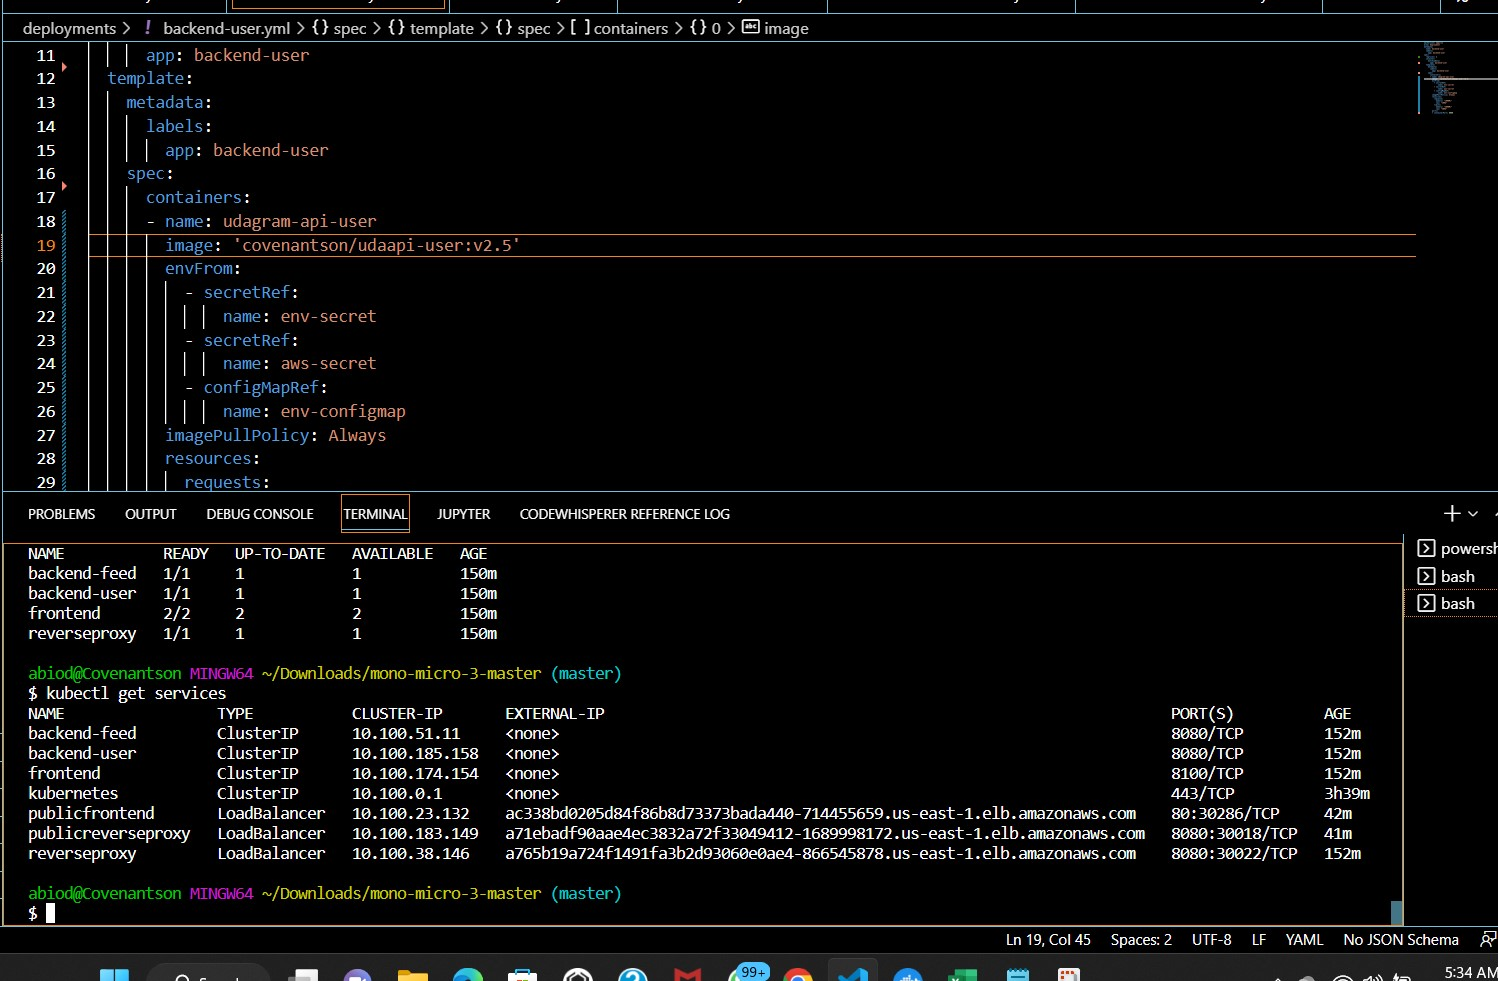
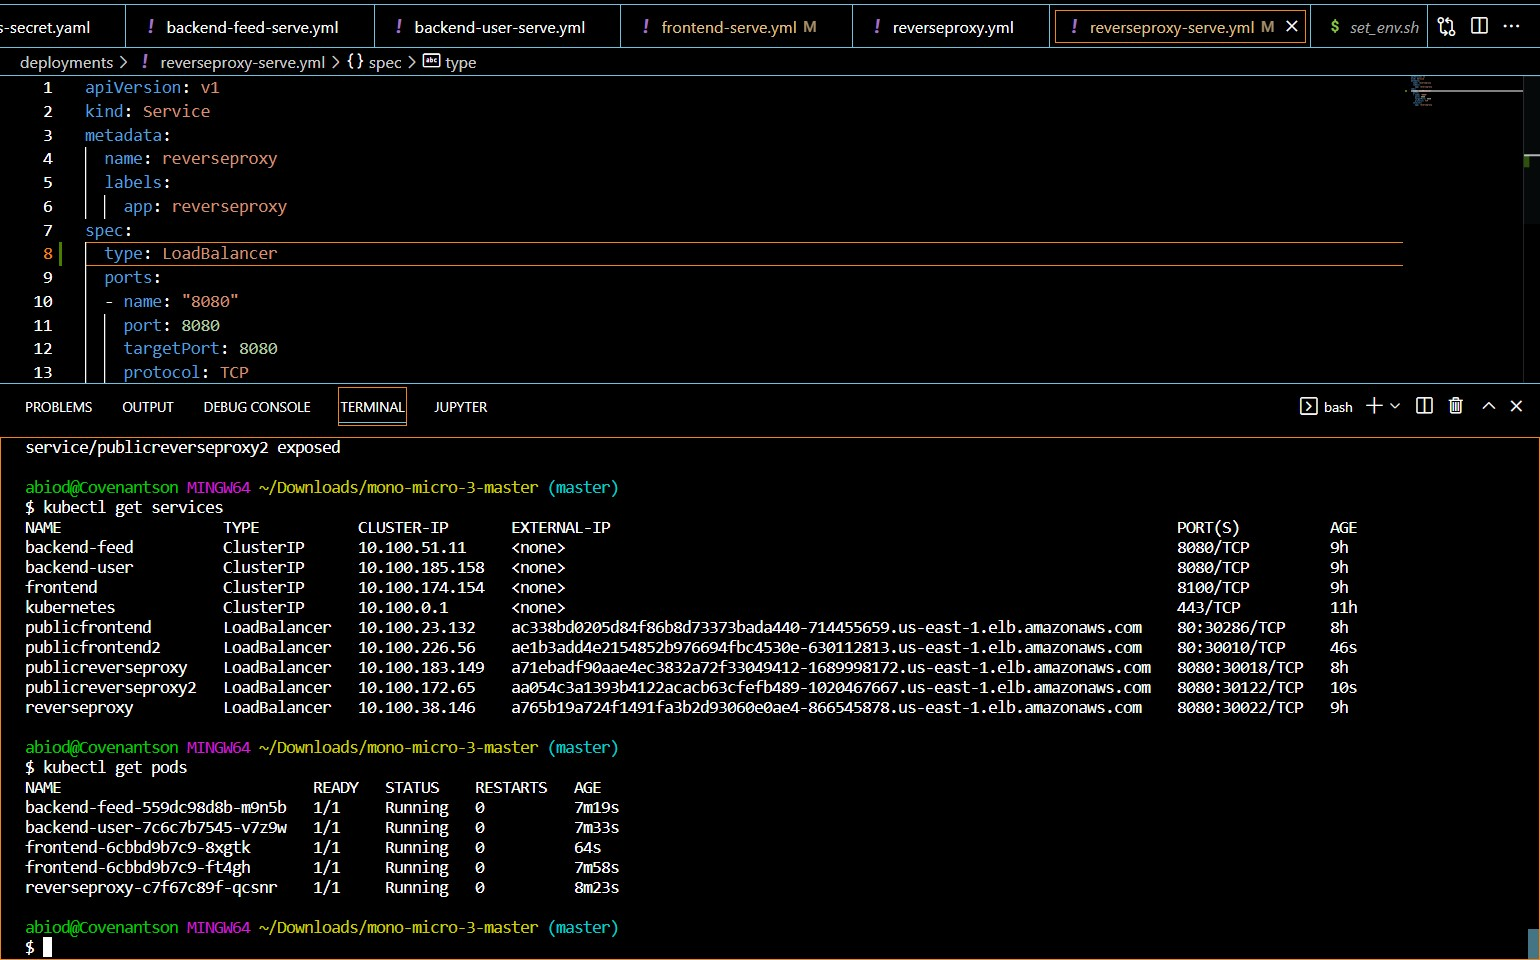
worked on hpa

diff --git a/udagram-frontend/src/environments/environment.prod.ts b/udagram-frontend/src/environments/environment.prod.ts
@@ -5,7 +5,7 @@
 export const environment = {
   production: false,
   appName: 'Udagram',
-  apiHost: 'http://a71ebadf90aae4ec3832a72f33049412-1689998172.us-east-1.elb.amazonaws.com:8080/api/v0'
+  apiHost: 'http://aa054c3a1393b4122acacb63cfefb489-1020467667.us-east-1.elb.amazonaws.com :8080/api/v0'
 };
 
 /*

diff --git a/udagram-frontend/src/environments/environment.ts b/udagram-frontend/src/environments/environment.ts
@@ -5,7 +5,7 @@
 export const environment = {
   production: false,
   appName: 'Udagram',
-  apiHost: 'http://a71ebadf90aae4ec3832a72f33049412-1689998172.us-east-1.elb.amazonaws.com:8080/api/v0'
+  apiHost: 'http://aa054c3a1393b4122acacb63cfefb489-1020467667.us-east-1.elb.amazonaws.com:8080/api/v0'
 };
 
 /*
